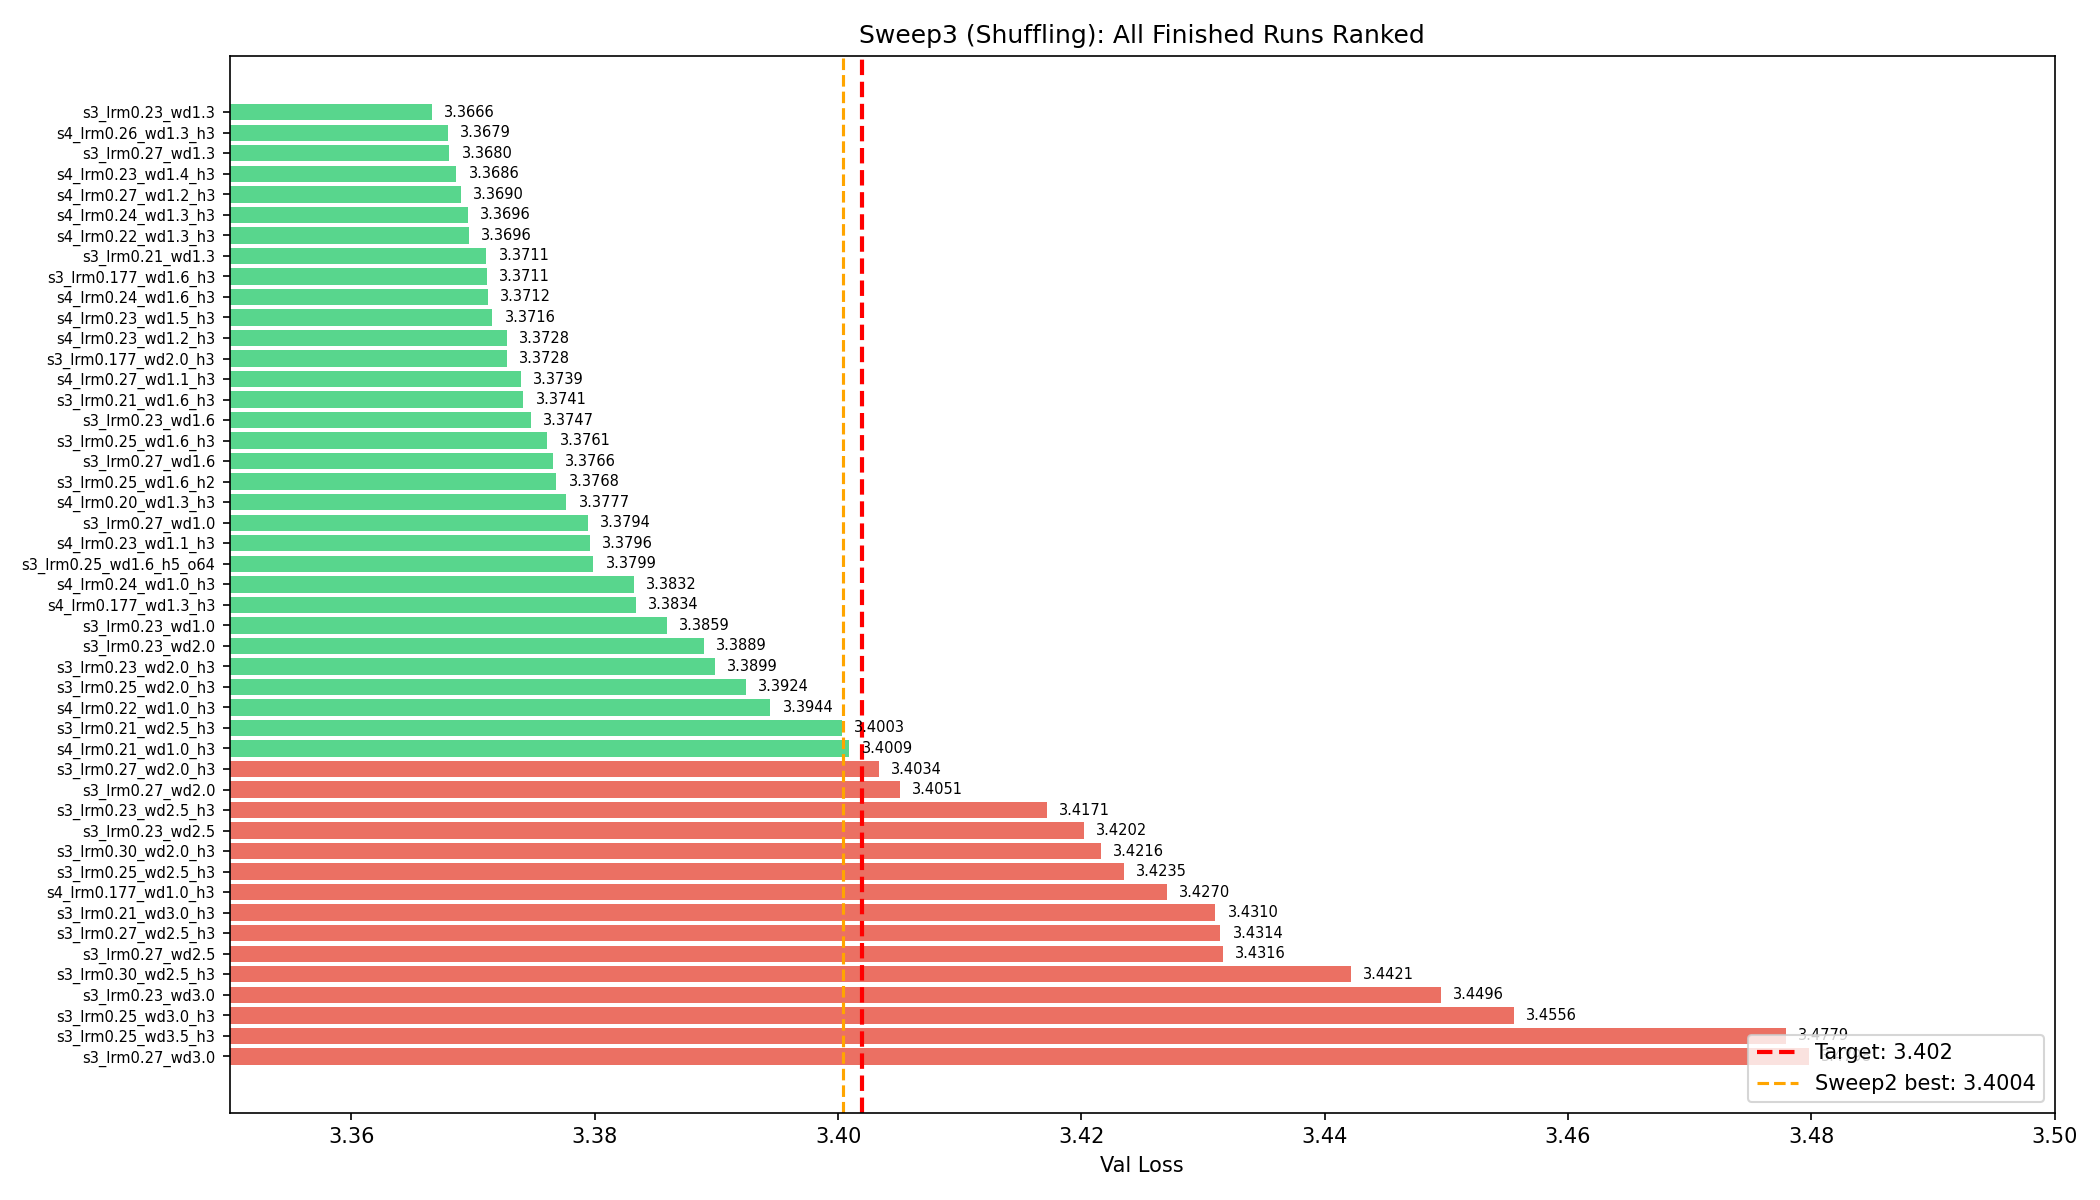
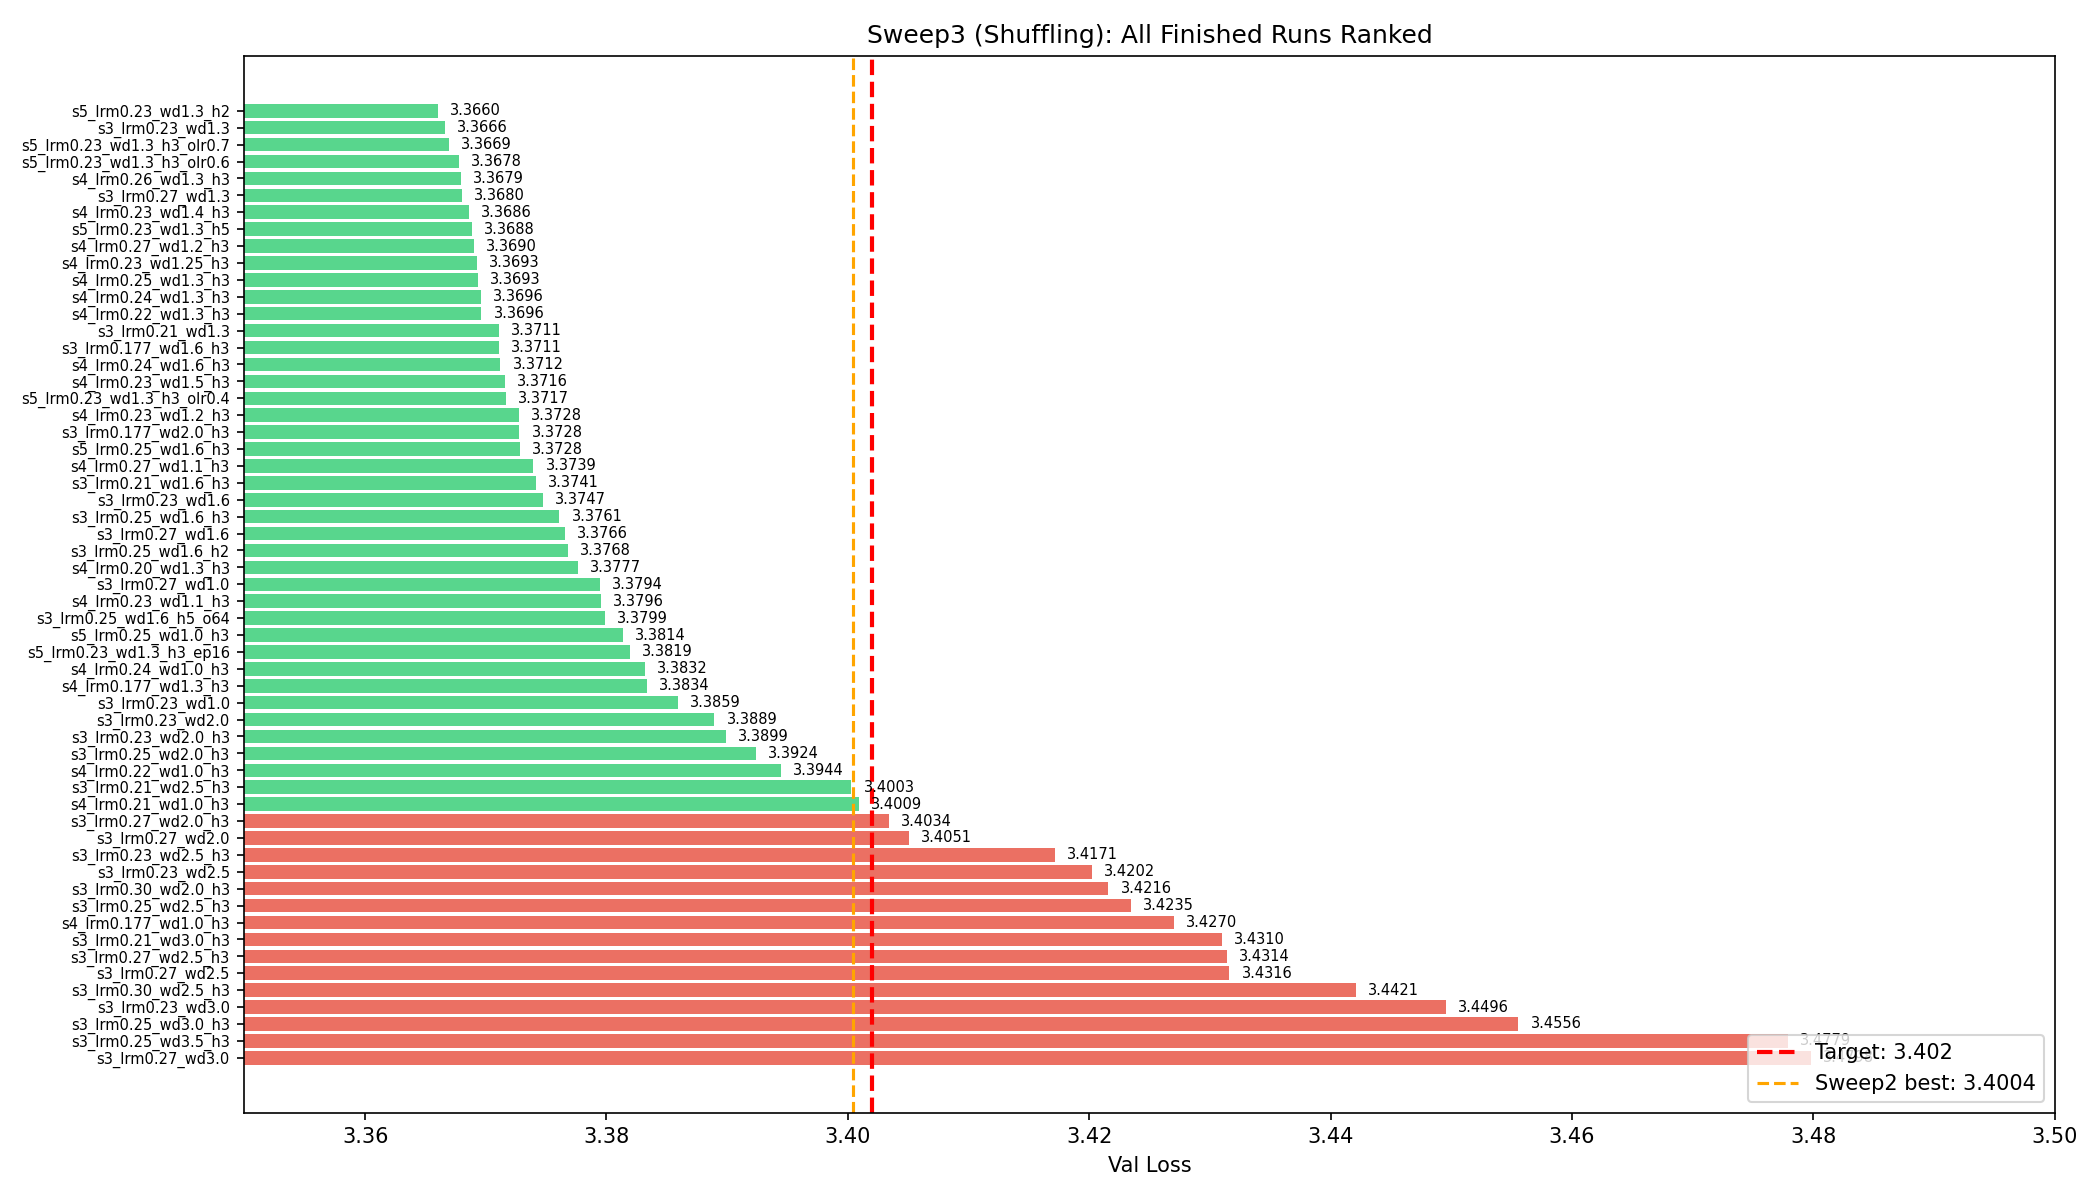
Update sweep5 results: H=2 new best (3.3660), olr/epoch exploration
Sweep5 exploratory results on tamia (8 configs):
- H=2 beats H=3: 3.3660 vs 3.3666 (new best!)
- olr sweep: 0.5 optimal, 0.7 nearly tied (3.3669)
- 16 epochs worse than 12 (3.3819) - overfitting
- LRM=0.25 gap fill: WD=1.0 (3.3814), WD=1.6 (3.3728)
- 59 finished runs total across sweep3-5

diff --git a/analysis/resume.md b/analysis/resume.md
@@ -1,59 +1,77 @@
-# Slowrun Sweep Resume State (2026-03-01 ~07:30 EST)
+# Slowrun Sweep Resume State (2026-03-01 ~18:30 EST)
 
 ## What You're Doing
-Sweep3 (broad grid) mostly complete. Sweep4 (fine-grained) nearly done on tamia, still running on mila. Fir jobs stuck pending. Monitoring remaining runs.
+Sweep3+4+5 largely complete. 57+ finished, 5 still running on mila (repeatedly preempted). All tamia sweep5 done. Fir cancelled. Monitoring mila stragglers.
 
-## KEY RESULT: Val Loss = 3.3666
-**Best: LRM=0.23, WD=1.3, olr=0.5, omom=0.5, H=3, 12 epochs, shuffling ON**
-- Target: 3.402 → beat by **0.0354** (1.04%)
-- Previous best (no shuffle): 3.4004 → improved by **0.0338**
+## KEY RESULT: Val Loss = 3.3660
+**Best: LRM=0.23, WD=1.3, olr=0.5, omom=0.5, H=2, 12 epochs, shuffling ON**
+- Target: 3.402 → beat by **0.036** (1.06%)
+- Previous best (H=3): 3.3666 → improved by **0.0006** with H=2
 
-## Optimum Region
-The optimum is very flat: LRM=0.22-0.27 × WD=1.2-1.4 all within 0.003 of each other.
+## Top 10 Results
+| Rank | Config | Val Loss |
+|------|--------|----------|
+| 1 | LRM=0.23 WD=1.3 **H=2** olr=0.5 | **3.3660** |
+| 2 | LRM=0.23 WD=1.3 H=3 olr=0.5 | 3.3666 |
+| 3 | LRM=0.23 WD=1.3 H=3 **olr=0.7** | 3.3669 |
+| 4 | LRM=0.23 WD=1.3 H=3 **olr=0.6** | 3.3678 |
+| 5 | LRM=0.26 WD=1.3 H=3 olr=0.5 | 3.3679 |
+| 6 | LRM=0.27 WD=1.3 H=3 olr=0.5 | 3.3680 |
+| 7 | LRM=0.23 WD=1.4 H=3 olr=0.5 | 3.3686 |
+| 8 | LRM=0.23 WD=1.3 **H=5** olr=0.5 | 3.3688 |
+| 9 | LRM=0.23 WD=1.25 H=3 olr=0.5 | 3.3693 |
+| 10 | LRM=0.25 WD=1.3 H=3 olr=0.5 | 3.3693 |
 
-### WD=1.3 Results (by LRM)
-| LRM | Val Loss |
-|-----|----------|
-| 0.177 | 3.3834 |
-| 0.20 | 3.3777 |
-| 0.21 | 3.3711 |
-| 0.22 | 3.3696 |
-| **0.23** | **3.3666** |
-| 0.24 | 3.3696 |
-| 0.26 | 3.3679 |
-| 0.27 | 3.3680 |
+## Sweep5 Exploratory Results
+### H Comparison (LRM=0.23, WD=1.3, olr=0.5)
+| H | Val Loss |
+|---|----------|
+| **2** | **3.3660** |
+| 3 | 3.3666 |
+| 5 | 3.3688 |
 
-### LRM=0.23 Results (by WD)
+### Outer LR Comparison (LRM=0.23, WD=1.3, H=3)
+| olr | omom | Val Loss |
+|-----|------|----------|
+| 0.4 | 0.6 | 3.3717 |
+| **0.5** | **0.5** | **3.3666** |
+| 0.6 | 0.4 | 3.3678 |
+| 0.7 | 0.3 | 3.3669 |
+
+### Extended Training
+| Epochs | Val Loss | Notes |
+|--------|----------|-------|
+| **12** | **3.3666** | Optimal |
+| 16 | 3.3819 | Worse — overfitting on 100M tokens |
+
+### LRM=0.25 Gap Fill
 | WD | Val Loss |
 |----|----------|
-| 1.0 | 3.3859 |
-| 1.1 | 3.3796 |
-| 1.2 | 3.3728 |
-| **1.3** | **3.3666** |
-| 1.4 | 3.3686 |
-| 1.5 | 3.3716 |
-| 1.6 | 3.3747 |
-| 2.0 | 3.3889 |
+| 1.0 | 3.3814 |
+| 1.3 | 3.3693 (mila) |
+| 1.6 | 3.3728 |
 
-## Cluster Status (07:30 EST)
-- **Fir**: 12 sweep3 jobs still PENDING (LRM=0.25×6, LRM=0.30×6) — stuck for >6 hours
-- **Tamia**: 2 sweep4 running (s4_lrm0.24_wd1.0, s4_lrm0.24_wd1.6), 0 pending
-- **Mila**: 4 sweep4 running (s4_lrm0.19_wd1.3, s4_lrm0.23_wd1.15, s4_lrm0.23_wd1.25, s4_lrm0.25_wd1.3)
+## Cluster Status (18:30 EST)
+- **Tamia**: All sweep5 done (8/8 complete)
+- **Mila**: 3 running (s4_lrm0.23_wd1.15 3.5h, s4_lrm0.19_wd1.3 3.5h, s3_lrm0.22_wd1.6 1h — all preempted multiple times, restarting)
+- **Fir**: Cancelled (were stuck 24h+)
 
 ## Completed Runs Summary
-- **Sweep3**: 33 finished + 1 running (mila preempted)
-- **Sweep4**: 14 finished, 6 running
-- **Total**: 47 completed configs across sweep3+sweep4
-
-## Analysis Files
-- `/mnt/raid0/claude/slowrun/analysis/sweep3_plots/` — Updated plots (6 files)
-- `/mnt/raid0/claude/slowrun/analysis/sweep3_wandb_data.json` — 58 runs
-- `/mnt/raid0/claude/slowrun/analysis/sweep3_plots.py` — Plot generation
+- **Sweep3**: 34 finished (s3_lrm0.22_wd1.6 still running on mila)
+- **Sweep4**: 18 finished (s4_lrm0.23_wd1.25 + s4_lrm0.25_wd1.3 just completed), 2 running (mila)
+- **Sweep5**: 8/8 finished on tamia
+- **Total**: ~57 completed, 5 still on mila
 
 ## Key Observations
-1. **Epoch shuffling provides ~0.034 loss improvement** (3.4004 → 3.3666)
-2. **WD=1.3 is optimal** (was 1.6 without shuffling)
-3. **LRM=0.23 is optimal** but the landscape is very flat (0.22-0.27 all within 0.003)
-4. **Lower LRM (0.177) prefers higher WD (1.6-2.0)** — the optimal WD shifts with LRM
-5. **WD > 2.5 always worse**, WD < 1.0 also suboptimal
-6. **H=3 sync interval confirmed** as optimal from sweep2
+1. **H=2 marginally beats H=3** (3.3660 vs 3.3666) — more frequent sync helps
+2. **olr=0.5 optimal** but olr=0.7 nearly as good (3.3669 vs 3.3666)
+3. **16 epochs worse than 12** (3.3819 vs 3.3666) — overfitting on 100M token dataset
+4. **LRM=0.22-0.27 × WD=1.2-1.4** all within 0.003 of best — very flat optimum
+5. **38+ out of 57+ runs beat 3.402 target**
+6. **Epoch shuffling provides ~0.034 improvement** (3.4004 → 3.3666)
+7. **All improvements are marginal** — further HP tuning unlikely to yield much more
+
+## Analysis Files
+- `/mnt/raid0/claude/slowrun/analysis/sweep3_plots/` — 6 plot files
+- `/mnt/raid0/claude/slowrun/analysis/sweep3_wandb_data.json` — All sweep data
+- `/mnt/raid0/claude/slowrun/analysis/sweep3_plots.py` — Plot generation
